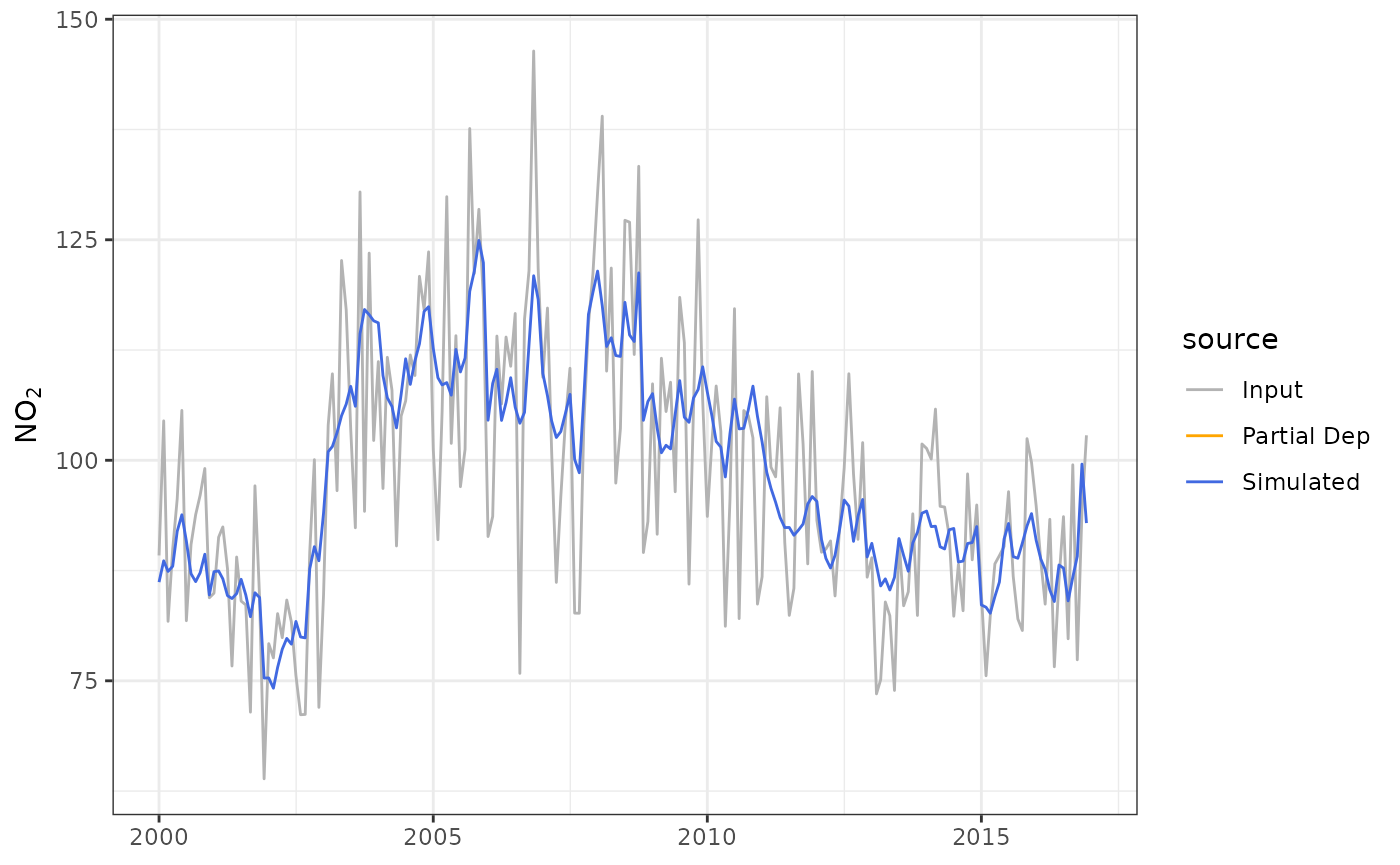
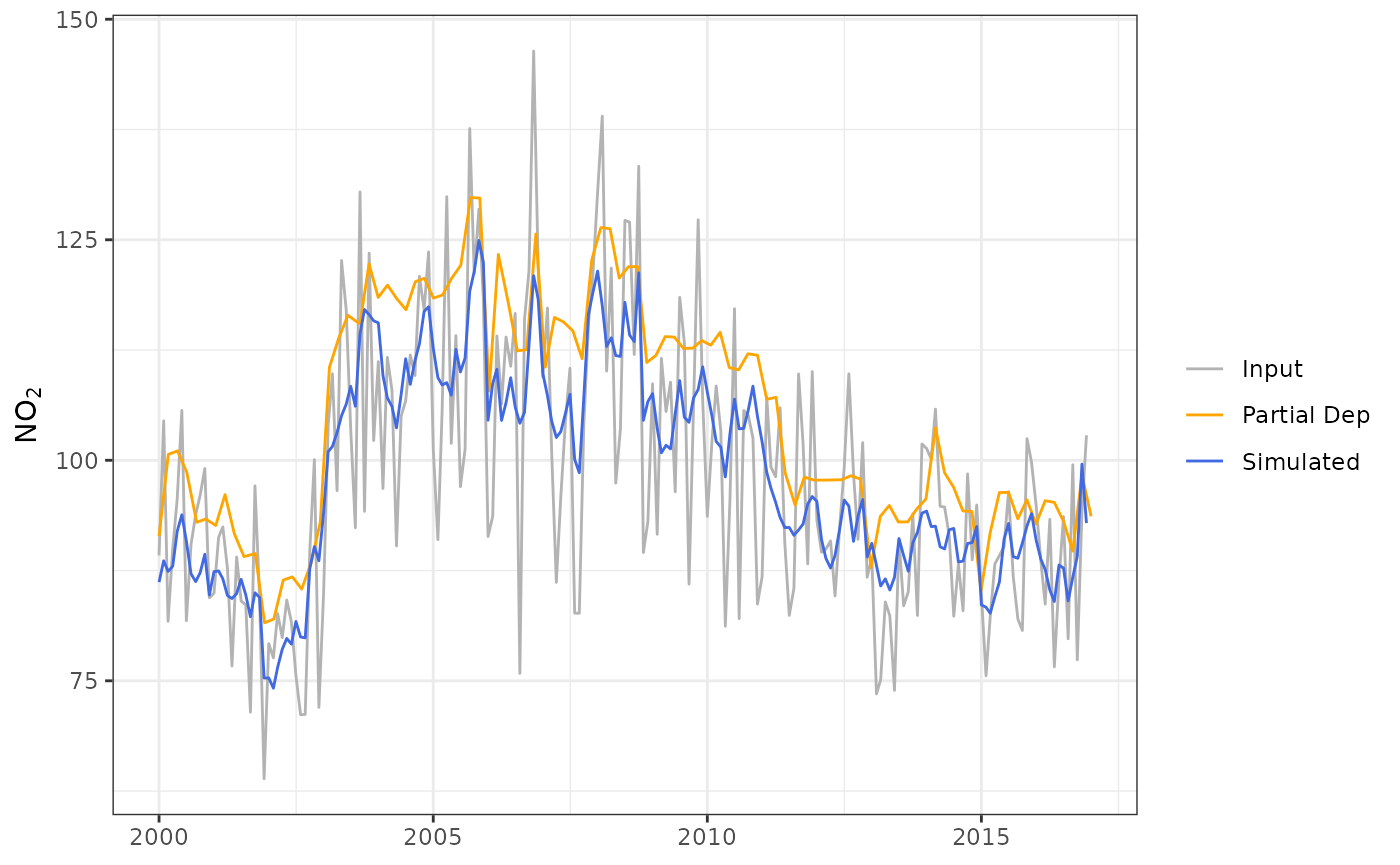
Deploying to gh-pages from @ openair-project/deweather@7c956d957d256616d1bec592cf6bde7a96719d68 🚀

diff --git a/articles/deweather.html b/articles/deweather.html
@@ -601,16 +601,19 @@ underestimate pollutant concentrations.</p>
 <span><span class="fu">dplyr</span><span class="fu">::</span><span class="fu"><a href="https://dplyr.tidyverse.org/reference/bind_rows.html" class="external-link">bind_rows</a></span><span class="op">(</span></span>
 <span>  <span class="st">"Simulated"</span> <span class="op">=</span> <span class="va">demet</span>,</span>
 <span>  <span class="st">"Input"</span> <span class="op">=</span> <span class="va">input_data</span>,</span>
-<span>  <span class="st">"Partial Dep"</span> <span class="op">=</span> <span class="va">pd_trend</span>,</span>
 <span>  .id <span class="op">=</span> <span class="st">"source"</span></span>
 <span><span class="op">)</span> <span class="op">|&gt;</span></span>
 <span>  <span class="fu">openair</span><span class="fu">::</span><span class="fu"><a href="https://openair-project.github.io/openair/reference/timeAverage.html" class="external-link">timeAverage</a></span><span class="op">(</span><span class="st">"month"</span>, type <span class="op">=</span> <span class="st">"source"</span><span class="op">)</span> <span class="op">|&gt;</span></span>
+<span>  <span class="fu">dplyr</span><span class="fu">::</span><span class="fu"><a href="https://dplyr.tidyverse.org/reference/bind_rows.html" class="external-link">bind_rows</a></span><span class="op">(</span></span>
+<span>    <span class="va">pd_trend</span> <span class="op">|&gt;</span> <span class="fu">dplyr</span><span class="fu">::</span><span class="fu"><a href="https://dplyr.tidyverse.org/reference/mutate.html" class="external-link">mutate</a></span><span class="op">(</span>source <span class="op">=</span> <span class="st">"Partial Dep"</span><span class="op">)</span></span>
+<span>  <span class="op">)</span> <span class="op">|&gt;</span></span>
 <span>  <span class="fu"><a href="https://ggplot2.tidyverse.org/reference/ggplot.html" class="external-link">ggplot</a></span><span class="op">(</span><span class="fu"><a href="https://ggplot2.tidyverse.org/reference/aes.html" class="external-link">aes</a></span><span class="op">(</span>x <span class="op">=</span> <span class="va">date</span>, y <span class="op">=</span> <span class="va">no2</span>, color <span class="op">=</span> <span class="va">source</span><span class="op">)</span><span class="op">)</span> <span class="op">+</span></span>
 <span>  <span class="fu"><a href="https://ggplot2.tidyverse.org/reference/geom_path.html" class="external-link">geom_line</a></span><span class="op">(</span><span class="op">)</span> <span class="op">+</span></span>
 <span>  <span class="fu"><a href="https://ggplot2.tidyverse.org/reference/ggtheme.html" class="external-link">theme_bw</a></span><span class="op">(</span><span class="op">)</span> <span class="op">+</span></span>
 <span>  <span class="fu"><a href="https://ggplot2.tidyverse.org/reference/labs.html" class="external-link">labs</a></span><span class="op">(</span></span>
 <span>    y <span class="op">=</span> <span class="fu">openair</span><span class="fu">::</span><span class="fu"><a href="https://openair-project.github.io/openair/reference/quickText.html" class="external-link">quickText</a></span><span class="op">(</span><span class="st">"NO2"</span><span class="op">)</span>,</span>
-<span>    x <span class="op">=</span> <span class="cn">NULL</span></span>
+<span>    x <span class="op">=</span> <span class="cn">NULL</span>,</span>
+<span>    color <span class="op">=</span> <span class="cn">NULL</span></span>
 <span>  <span class="op">)</span> <span class="op">+</span></span>
 <span>  <span class="fu"><a href="https://ggplot2.tidyverse.org/reference/scale_manual.html" class="external-link">scale_color_manual</a></span><span class="op">(</span></span>
 <span>    values <span class="op">=</span> <span class="fu"><a href="https://rdrr.io/r/base/c.html" class="external-link">c</a></span><span class="op">(</span></span>
@@ -619,9 +622,7 @@ underestimate pollutant concentrations.</p>
 <span>      <span class="st">"Simulated"</span> <span class="op">=</span> <span class="st">"royalblue"</span></span>
 <span>    <span class="op">)</span></span>
 <span>  <span class="op">)</span></span>
-<span><span class="co">#&gt; Calculating Time Averages <span style="color: #00BB00;">■■■■■■■■■■■                     </span>  33% |  ETA:  3s</span></span>
-<span><span class="co">#&gt; Warning: Removed 1 row containing missing values or values outside the scale range</span></span>
-<span><span class="co">#&gt; (`geom_line()`).</span></span></code></pre></div>
+<span><span class="co">#&gt; Calculating Time Averages <span style="color: #00BB00;">■■■■■■■■■■■■■■■■                </span>  50% |  ETA:  1s</span></span></code></pre></div>
 <p><img src="deweather_files/figure-html/unnamed-chunk-2-1.png" class="r-plt" alt="" width="700"></p>
 <p>Note that the function <code><a href="../reference/predict_dw.html">predict_dw()</a></code> is also provided for
 generalised use of a deweather model for prediction.</p>

diff --git a/index.html b/index.html
@@ -112,7 +112,7 @@
 <p><strong>deweather</strong> makes it straightforward to test, build, and evaluate models in R.</p>
 <ul>
 <li><p><strong>Test and build meteorological normalisation models</strong> flexibly using <code><a href="reference/tune_dw_model.html">tune_dw_model()</a></code> and <code><a href="reference/build_dw_model.html">build_dw_model()</a></code>.</p></li>
-<li><p><strong>Plot and examine models</strong> in a myriad of ways, including visualising partial dependencies, using functions like <code>plot_importance()</code>, <code><a href="reference/plot_dw_partial_1d.html">plot_dw_partial_1d()</a></code> and <code><a href="reference/plot_dw_partial_2d.html">plot_dw_partial_2d()</a></code>.</p></li>
+<li><p><strong>Plot and examine models</strong> in a myriad of ways, including visualising partial dependencies, using functions like <code><a href="reference/plot_dw_importance.html">plot_dw_importance()</a></code>, <code><a href="reference/plot_dw_partial_1d.html">plot_dw_partial_1d()</a></code> and <code><a href="reference/plot_dw_partial_2d.html">plot_dw_partial_2d()</a></code>.</p></li>
 <li><p><strong>Apply meteorological averaging</strong> using <code><a href="reference/simulate_dw_met.html">simulate_dw_met()</a></code> to obtain a meteorologically normalised air quality timeseries.</p></li>
 </ul>
 <p>Modelling can be computationally intensive and therefore <strong>deweather</strong> makes use of the parallel processing, which should work on Windows, Linux and Mac OSX.</p>

diff --git a/articles/deweather.md b/articles/deweather.md
@@ -568,16 +568,19 @@ input_data <- get_dw_input_data(no2_model) |>
 dplyr::bind_rows(
   "Simulated" = demet,
   "Input" = input_data,
-  "Partial Dep" = pd_trend,
   .id = "source"
 ) |>
   openair::timeAverage("month", type = "source") |>
+  dplyr::bind_rows(
+    pd_trend |> dplyr::mutate(source = "Partial Dep")
+  ) |>
   ggplot(aes(x = date, y = no2, color = source)) +
   geom_line() +
   theme_bw() +
   labs(
     y = openair::quickText("NO2"),
-    x = NULL
+    x = NULL,
+    color = NULL
   ) +
   scale_color_manual(
     values = c(
@@ -586,9 +589,7 @@ dplyr::bind_rows(
       "Simulated" = "royalblue"
     )
   )
-#> Calculating Time Averages ■■■■■■■■■■■                       33% |  ETA:  3s
-#> Warning: Removed 1 row containing missing values or values outside the scale range
-#> (`geom_line()`).
+#> Calculating Time Averages ■■■■■■■■■■■■■■■■                  50% |  ETA:  1s
 ```
 
 ![](deweather_files/figure-html/unnamed-chunk-2-1.png)

diff --git a/index.md b/index.md
@@ -35,7 +35,8 @@ models in R.
   [`build_dw_model()`](https://openair-project.github.io/deweather/reference/build_dw_model.md).
 
 - **Plot and examine models** in a myriad of ways, including visualising
-  partial dependencies, using functions like `plot_importance()`,
+  partial dependencies, using functions like
+  [`plot_dw_importance()`](https://openair-project.github.io/deweather/reference/plot_dw_importance.md),
   [`plot_dw_partial_1d()`](https://openair-project.github.io/deweather/reference/plot_dw_partial_1d.md)
   and
   [`plot_dw_partial_2d()`](https://openair-project.github.io/deweather/reference/plot_dw_partial_2d.md).
